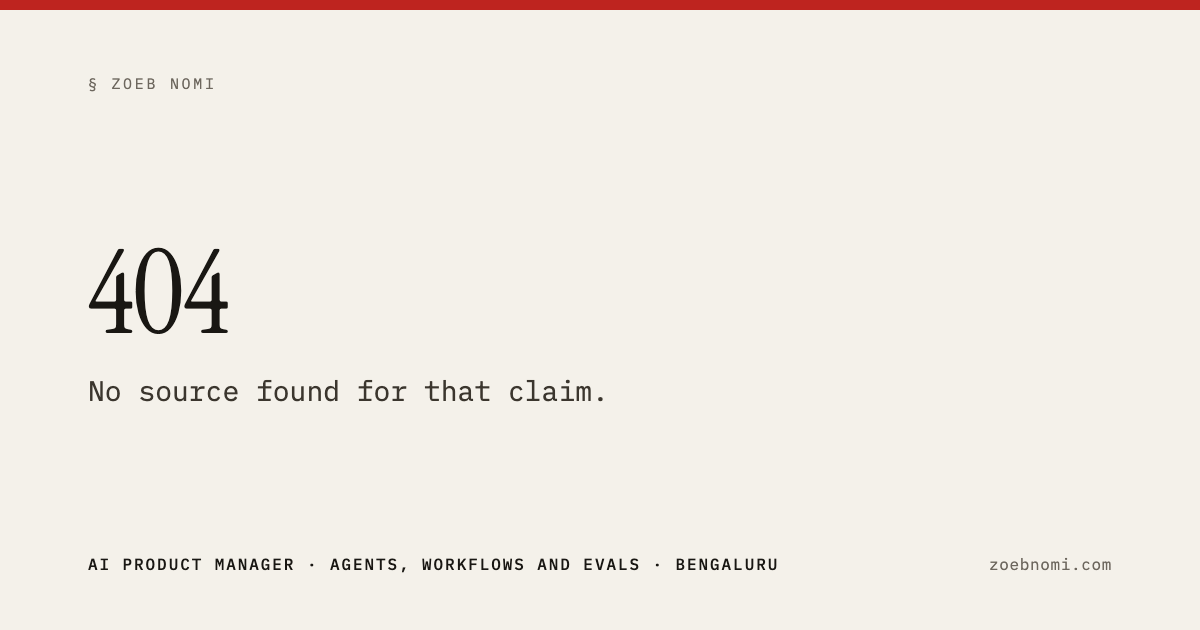
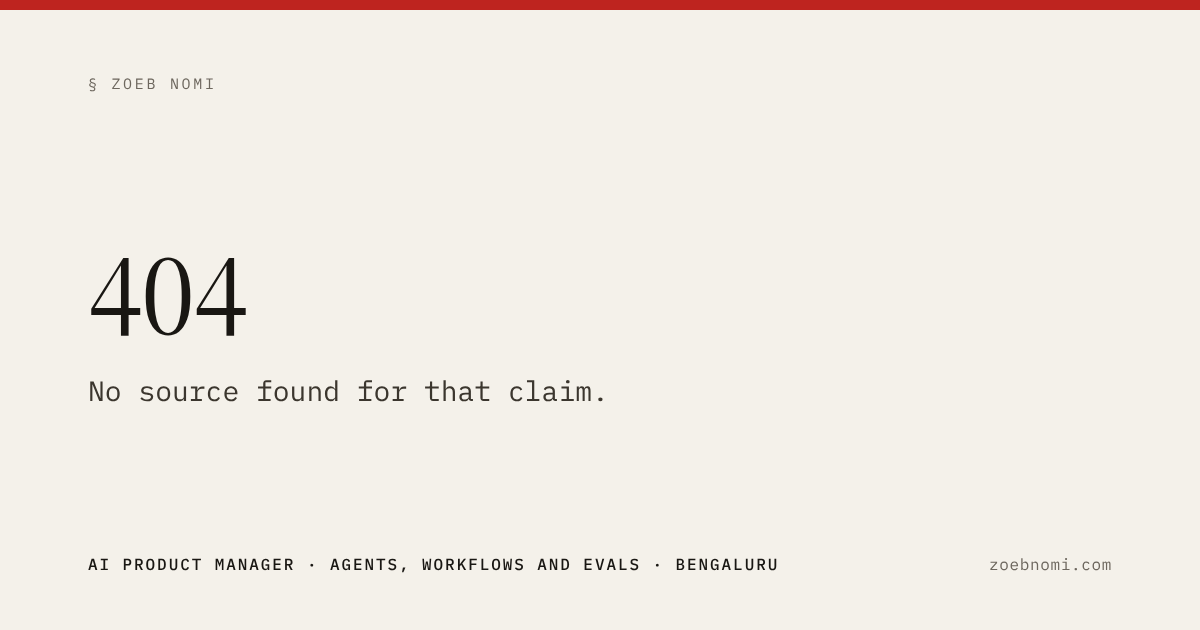
v4 display face: Source Serif 4 Display replaces Instrument Serif
Instrument Serif is one of the stock faces on the published AI design-slop
checklists. Source Serif 4 (OFL) at opsz 60, wght 400, instanced and subset
to the old unicode-range: 18.7 KB vs 21.0 KB. It sets wider, so --t-display
drops to clamp(50px, 7.4vw, 106px); the italic preload goes (no italic
above the fold). OG cards regenerated. Revert this commit alone to go back.

Claude-Session: https://claude.ai/code/session_01RyLmAR8GVUB3yDv5QqkD7H

diff --git a/src/styles/base.css b/src/styles/base.css
@@ -3,10 +3,11 @@
    Self-hosted fonts, zero requests to Google Fonts at runtime. */
 @import '../../design/tokens.css';
 
-/* ---- Instrument Serif (display) ---- */
+/* ---- Source Serif 4 Display (display; v4, replaces Instrument Serif). Static instance of the OFL
+   variable font at opsz 60, wght 400, subset to the old unicode-range (scripts: design/README.md §4). ---- */
 @font-face {
-  font-family: 'Instrument Serif';
-  src: url('/fonts/instrument-serif-latin-400-normal.woff2') format('woff2');
+  font-family: 'Source Serif 4 Display';
+  src: url('/fonts/source-serif-4-display-latin-400-normal.woff2') format('woff2');
   font-weight: 400;
   font-style: normal;
   font-display: swap;
@@ -14,8 +15,8 @@
 }
 
 @font-face {
-  font-family: 'Instrument Serif';
-  src: url('/fonts/instrument-serif-latin-400-italic.woff2') format('woff2');
+  font-family: 'Source Serif 4 Display';
+  src: url('/fonts/source-serif-4-display-latin-400-italic.woff2') format('woff2');
   font-weight: 400;
   font-style: italic;
   font-display: swap;
@@ -64,9 +65,9 @@
 @font-face {
   font-family: 'Display Fallback';
   src: local('Georgia'), local('Times New Roman');
-  size-adjust: 104%;
-  ascent-override: 84%;
-  descent-override: 22%;
+  size-adjust: 100%;
+  ascent-override: 103.6%;
+  descent-override: 33.5%;
   line-gap-override: 0%;
 }
 

diff --git a/design/tokens.css b/design/tokens.css
@@ -8,7 +8,7 @@
 
 :root {
   /* Typefaces: three faces, self-hosted (public/fonts). */
-  --font-display: 'Instrument Serif', 'Display Fallback', Georgia, 'Times New Roman', serif;
+  --font-display: 'Source Serif 4 Display', 'Display Fallback', Georgia, 'Times New Roman', serif;
   --font-body: 'IBM Plex Sans', 'Body Fallback', -apple-system, 'Segoe UI', Helvetica, sans-serif;
   --font-mono: 'IBM Plex Mono', 'Mono Fallback', ui-monospace, 'SF Mono', Menlo, monospace;
 
@@ -58,7 +58,7 @@
   --line-pen-dashed: 2px dashed var(--red);
 
   /* Type scale (DESIGN v3 §c). Floor is 12px everywhere. */
-  --t-display: clamp(56px, 9.4vw, 136px);   /* home H1, line 1 */
+  --t-display: clamp(50px, 7.4vw, 106px);   /* home H1 (v4: Source Serif 4 Display sets wider than Instrument Serif) */
   --t-answer: clamp(28px, 3.4vw, 50px);     /* v3 home H1 line 2; retired on home in v4, kept for one release */
   --t-lede: clamp(22px, 2.3vw, 32px);       /* v4: the plain sans line under the home H1 */
   --t-hero: var(--t-display);

diff --git a/design/README.md b/design/README.md
@@ -59,7 +59,7 @@ border widths and vertical structural rules outside figure and object components
 
 ## 4. Type
 
-Instrument Serif (display), IBM Plex Sans (body), IBM Plex Mono (labels and data). Weights
+Source Serif 4 Display (display; replaced Instrument Serif in v4), IBM Plex Sans (body), IBM Plex Mono (labels and data). Weights
 400/500 only, self-hosted. Floor 12px everywhere.
 
 | role | token | 390 → 1440 | face |
